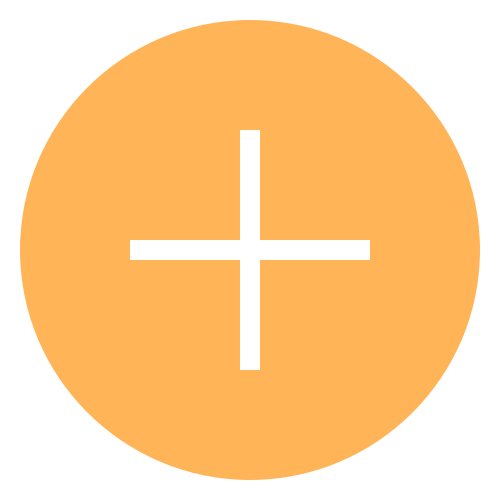
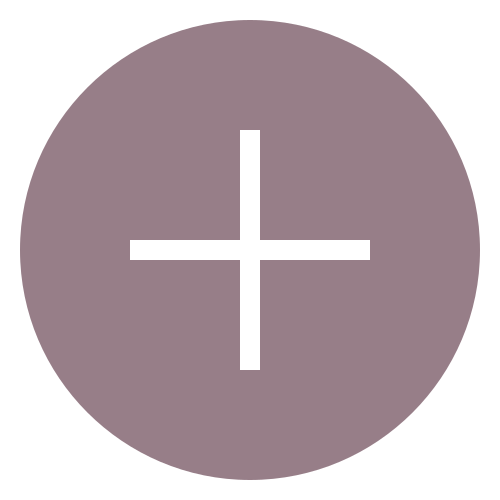
other css changes

diff --git a/Front/src/App.css b/Front/src/App.css
@@ -1,4 +1,6 @@
 #root{
+  background-color: #FDF4F8;
+
   padding-top:120px;
   padding-bottom:0px;
   margin-bottom: 0px;
@@ -6,7 +8,7 @@
   min-height: 100%; height: auto !important; height: 100%;}
   
 html, body{
-  background-color: rgb(248, 243, 238);
+  background-color: #FDF4F8;
 font-family: Georgia, 'Times New Roman', Times, serif;
 font-size: large;
 width: 100%;
@@ -24,14 +26,21 @@ position: fixed;
 z-index: 100;
 left:0;
 top:0;
-background-color: rgba(253, 242, 229, 0.877);
+background-color: #FDF4F8;
 }
 .logo{
   height: 120px;
   width: 120px;
   overflow: hidden;
-
+  -webkit-animation:spin 4s linear infinite;
+  -moz-animation:spin 4s linear infinite;
+  animation:spin 4s linear infinite;
 }
+@-moz-keyframes spin { 10% { -moz-transform: rotate(10deg); } }
+@-webkit-keyframes spin { 10% { -webkit-transform: rotate(10deg); } }
+@keyframes spin { 10% { -webkit-transform: rotate(10deg); transform:rotate(10deg); } }
+
+
 .addbutton{
   height: 100px;
   width: 100px;
@@ -45,7 +54,7 @@ background-color: rgba(253, 242, 229, 0.877);
 .logotext{
   font-weight: bold;
   font-size: x-large;
-  color: rgb(255, 180, 88);
+  color: rgb(151, 126, 136);
   margin-right: 250px;
 
 }
@@ -55,19 +64,19 @@ background-color: rgba(253, 242, 229, 0.877);
 
 .navbar {
   
-  background-color:rgba(250, 206, 153, 0.952)!important;
+  background-color:rgb(255, 223, 236)!important;
   height: 70px;
   border-radius: 5px;
+  color:rgb(151, 126, 136)!important;
 }
 .dropdown-menu {
-  background-color: rgb(248, 198, 136)!important;
+  background-color: rgb(247, 203, 221)!important;
   
 }
 
 .dropdown-item{
-  background-color: rgb(248, 198, 136)!important;
-  color:rgb(90, 74, 52)!important;
-}
+  background-color: rgb(247, 203, 221)!important;
+  color:rgb(151, 126, 136)!important;}
 .dropdown-menu :hover{
   color: rgb(24, 18, 12)!important;
 } 
@@ -79,7 +88,7 @@ background-color: rgba(253, 242, 229, 0.877);
   
 }
 .carousel-caption{
-  color: rgb(255, 255, 255);
+  color: #FDF4F8;
 }
 .carousel-caption h3{
   font-size: 80px;
@@ -101,7 +110,7 @@ margin-top: 50px;
 }
 .last-section-box{
   border: solid;
-  border-color:rgba(255, 158, 31, 0.719);
+  border-color:rgb(151, 126, 136)!important;;
   width: 450px;
   height: 800px;
   margin: 10px;
@@ -145,26 +154,28 @@ flex-wrap: wrap;
 .container_list .elmt span{font-weight: bolder}
 
 
-.app_cont,form{margin-left: 400px;}
+/* .app_cont,form{margin-left: 400px;} */
 /* FontAwesome for working BootSnippet :> */
 
 @import url('https://maxcdn.bootstrapcdn.com/font-awesome/4.7.0/css/font-awesome.min.css');
 #team {
-    background: #eee !important;
+    background-image:url('https://www.xpresslenses.com/wp-content/uploads/2016/09/kawaii-background-tumblr-heart-129243.jpg') !important;
 }
 
 .btn-primary:hover,
 .btn-primary:focus {
-    background-color: #108d6f;
-    border-color: #108d6f;
+    background-color: rgb(172, 133, 148)!important;;
+    border: none;
     box-shadow: none;
     outline: none;
 }
 
 .btn-primary {
     color: #fff;
-    background-color: #007b5e;
-    border-color: #007b5e;
+    background-color: rgb(151, 126, 136)!important;;
+    border: none;
+    margin: 10px;
+
 }
 
 section {
@@ -173,14 +184,13 @@ section {
 
 section .section-title {
     text-align: center;
-    color:#FFB458;
     margin-bottom: 50px;
     text-transform: uppercase;
 }
 
 #team .card {
     border: none;
-    background: #ffe8c5;
+    background: rgb(253, 233, 242);
 }
 
 .image-flip:hover .backside,
@@ -270,8 +280,8 @@ section .section-title {
 .card a.btn-primary {
     font-size: 18px;
     color: white ;
-    background-color:#FFB458;
-    border-color:#FFB458;
+    background-color:rgb(151, 126, 136)!important;;
+    border-color:rgb(151, 126, 136)!important;;
     -webkit-transform: scale(0.8);
     -moz-transform: scale(0.8);
     -o-transform: scale(0.8);
@@ -281,12 +291,12 @@ section .section-title {
 }
 
 .card a.btn-primary.btn-delete {
-  background-color:rgb(255, 134, 64);
-  border-color:rgb(255, 134, 64);
+  background-color:rgb(151, 126, 136)!important;;
+  border-color:rgb(151, 126, 136)!important;;
 }
 .frontside .card .card-title,
 .backside .card .card-title {
-    color:#FFB458;
+    color:rgb(151, 126, 136)!important;;
 }
 
 .frontside .card .card-body img {
@@ -320,6 +330,10 @@ width: 100%;
 .center_button{
   display: flex;
   justify-content: center;
-  color:rgb(221, 156, 75);
+  color:rgb(151, 126, 136)!important;;
 
+}
+.section-title,h1{
+  color:rgb(151, 126, 136)!important;
+ 
 }

diff --git a/Front/src/components/listMeals.js b/Front/src/components/listMeals.js
@@ -42,7 +42,7 @@ class MealsList extends Component {
 
                             return (
                                 <div>
-                                    <h4 className="section-title h1"  style={{color:'rgb(221, 156, 75)'}}>{el.day.substring(0, 10)}</h4>
+                                    <h4 className="section-title h1"  >{el.day.substring(0, 10)}</h4>
                                         <div style={{display:'flex'}}>
                                             <div className="frontside" style={{marginLeft:'5px'}}>
                                                 <div className="card" style={{height:'120px'}}>
@@ -114,11 +114,11 @@ class MealsList extends Component {
                                                 </div>
                                             </div>
                                 </div>
-                                                          <div style={{display:'flex',flexDirection:'column', alignItems:'center'}}> <div className="card" style={{width:'200px'}}><div className= "center_button" >
+                                                          <div className= "center_button"  style={{display:'flex', justifyContent:'center'}}>
                                                                                     <a href="#" class="btn btn-primary  btn-delete"> <i class="fas fa-trash" > <span onClick={() => { this.delete(el._id) }} >Delete</span></i></a>
                                                                                     <Link class="btn btn-primary" to={`/modifymeal/${el._id}/${el.day}/${el.mainMeal}/${el.dessert}/${el.snack}`}><i class="fas fa-edit"> Edit</i></Link>
 
-                                                            </div></div> </div>
+                                                            </div>
                                 </div>
                             
                             )

diff --git a/Front/src/components/listEvents.js b/Front/src/components/listEvents.js
@@ -51,9 +51,9 @@ class EventsList extends Component {
                         {this.state.events.map((el, i) => {
 
                             return (
-                                <div className="col-xs-12 col-sm-6 col-md-4">
-                                            <div className="frontside">
-                                                <div className="card" style={{height:'fit-content'}}>
+                                <div>
+                                            <div className="frontside"style={{width:'800px'}}>
+                                                <div className="card" style={{height:'fit-content',width:'800px'}}>
                                                     <div className="card-body text-center">
                                                     <p className="card-title"> {el.type}</p>
                                                         <p className="card-text"> {el.description}</p>

diff --git a/Front/src/components/addParent.js b/Front/src/components/addParent.js
@@ -73,11 +73,10 @@ class ParentAdd extends Component {
 
      
 
-        <section id="team" className="pb-5">
+        <section id="team" >
 
-<div className="col-xs-12 col-sm-6 col-md-4">
-<div className="edit">
-  <div className="frontside" >
+<div className="edit" >
+  <div className="frontside"style={{marginLeft:'540px'}} >
     <div className="card" style={{height:'fit-content'}}>
 
       <div className="card-body">
@@ -126,7 +125,6 @@ class ParentAdd extends Component {
       </div>
     </div>
   </div>
-</div>
 </section>
 
 

diff --git a/Front/src/components/addAssistant.js b/Front/src/components/addAssistant.js
@@ -61,7 +61,7 @@ else { alert('Required fields!! Name and tel and email and adress and groupName'
 
           <div className="col-xs-12 col-sm-6 col-md-4">
           <div className="edit">
-            <div className="frontside">
+            <div className="frontside"style={{marginLeft:'540px'}}>
               <div className="card" style={{height:'fit-content'}}>
           
                 <div className="card-body">

diff --git a/Front/src/components/addEvent.js b/Front/src/components/addEvent.js
@@ -56,7 +56,7 @@ else { alert('Required fields!! startTime, duration, type and description') }
 
           <div className="col-xs-12 col-sm-6 col-md-4">
           <div className="edit">
-            <div className="frontside">
+            <div className="frontside" style={{marginLeft:'540px'}}>
               <div className="card" style={{height:'fit-content'}}>
           
                 <div className="card-body">

diff --git a/Front/src/components/addBaby.js b/Front/src/components/addBaby.js
@@ -59,7 +59,7 @@ else { alert('Required fields!! Name and lastname and birthdate') }
 
           <div className="col-xs-12 col-sm-6 col-md-4">
           <div className="edit">
-            <div className="frontside">
+            <div className="frontside" style={{marginLeft:'540px'}}>
               <div className="card" style={{height:'fit-content'}}>
           
                 <div className="card-body">

diff --git a/Front/src/components/addMeal.js b/Front/src/components/addMeal.js
@@ -53,7 +53,7 @@ else { alert('Required fields!! day and mainMeal') }
 
           <div className="col-xs-12 col-sm-6 col-md-4">
           <div className="edit">
-            <div className="frontside">
+            <div className="frontside" style={{marginLeft:'540px'}}>
               <div className="card" style={{height:'fit-content'}}>
           
                 <div className="card-body">

diff --git a/Front/src/components/addClub.js b/Front/src/components/addClub.js
@@ -49,7 +49,7 @@ else { alert('Required fields!! Name and Day') }
 
           <div className="col-xs-12 col-sm-6 col-md-4">
           <div className="edit">
-            <div className="frontside">
+            <div className="frontside" style={{marginLeft:'540px'}}>
               <div className="card" style={{height:'fit-content'}}>
           
                 <div className="card-body">

diff --git a/Front/src/components/modifyBaby.js b/Front/src/components/modifyBaby.js
@@ -55,7 +55,7 @@ class ModifyBaby extends Component {
 
         <div className="col-xs-12 col-sm-6 col-md-4">
         <div className="edit">
-          <div className="frontside">
+          <div className="frontside" style={{marginLeft:'540px'}}>
             <div className="card" style={{height:'fit-content'}}>
 
               <div className="card-body">

diff --git a/Front/src/components/modifyClub.js b/Front/src/components/modifyClub.js
@@ -50,7 +50,7 @@ class ModifyClub extends Component {
 
         <div className="col-xs-12 col-sm-6 col-md-4">
         <div className="edit">
-          <div className="frontside">
+          <div className="frontside" style={{marginLeft:'540px'}}>
             <div className="card" style={{height:'fit-content'}}>
 
               <div className="card-body">

diff --git a/Front/src/components/modifyMeal.js b/Front/src/components/modifyMeal.js
@@ -55,7 +55,7 @@ class ModifyMeal extends Component {
 
         <div className="col-xs-12 col-sm-6 col-md-4">
         <div className="edit">
-          <div className="frontside">
+          <div className="frontside" style={{marginLeft:'540px'}}>
             <div className="card" style={{height:'fit-content'}}>
 
               <div className="card-body">
